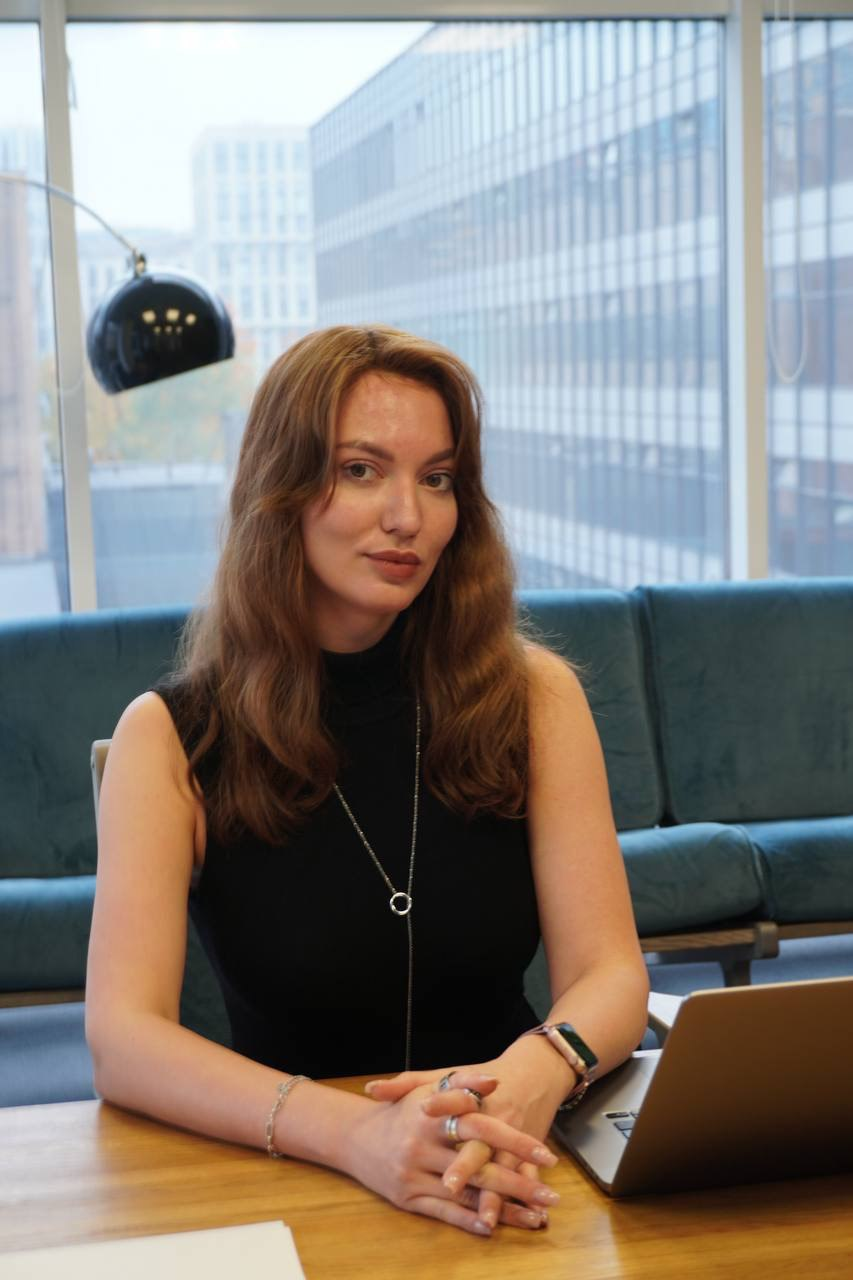
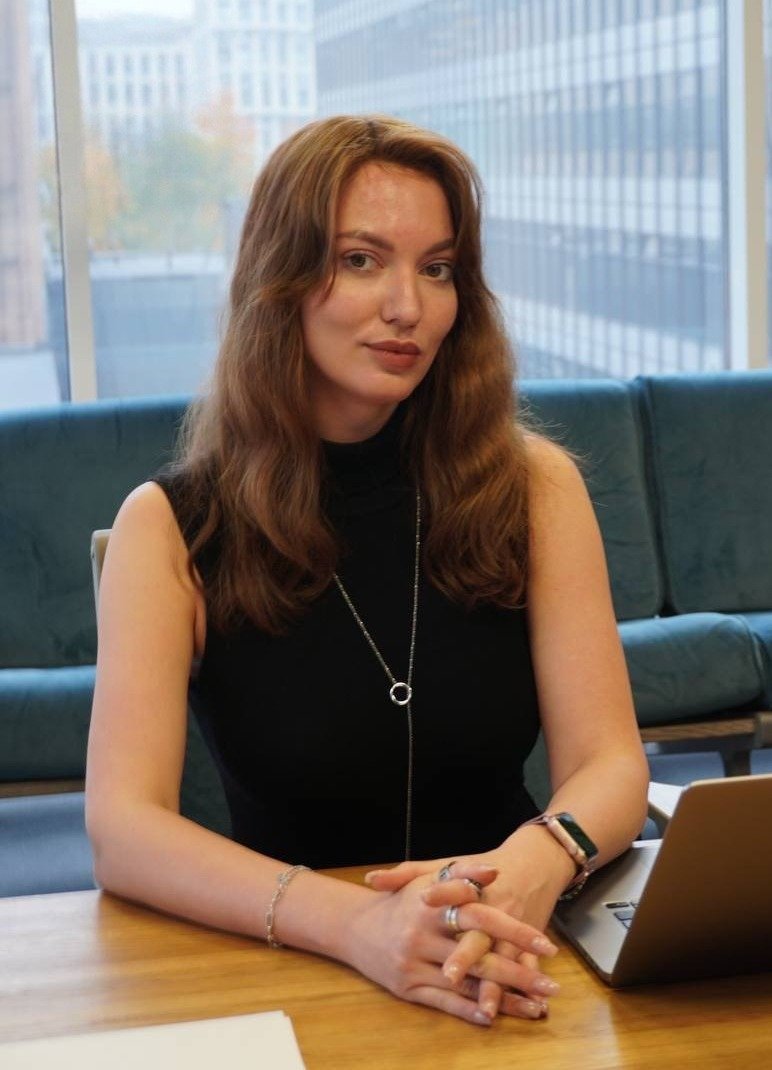
Тарифы: светлая глава с ховер-инверсией; слово основателей (Илья и Кирилл, новое фото); Алёна без лампы (лицо оригинал); «12 городов на карте наших проектов»

diff --git a/index.html b/index.html
@@ -194,36 +194,37 @@ section.section--warm{background:var(--surface-warm)}
 .studio-photos .figure:nth-child(3){margin-top:-18px}
 .studio-photos .shot{aspect-ratio:3/4}
 
-/* ============ 6 · ТАРИФЫ ============ */
-.tariffs{display:grid;grid-template-columns:repeat(3,1fr);gap:var(--grid-gap)}
-.tcard{border:var(--bw) solid var(--border);padding:34px 30px;display:flex;flex-direction:column;min-height:380px;transition:border-color .8s var(--ease),transform .8s var(--ease)}
-.tcard{position:relative}
-.tcard:hover{border-color:var(--ink);transform:translateY(-4px)}
-.tcard::after{content:"";position:absolute;left:0;top:-1px;height:2px;width:0;background:var(--ink);transition:width .7s var(--ease)}
-.tcard.mid::after{background:var(--paper)}
-.tcard:hover::after{width:100%}
-.tcard.hi{border-color:var(--ink)}
-.tcard.mid{border-color:var(--ink);background:var(--ink);color:var(--paper)}
-.tcard.mid .tname,.tcard.mid li{color:rgba(252,252,252,.72)}
-.tcard.mid li::before{color:rgba(252,252,252,.5)}
-.tcard.mid .price{color:#fff}
-.tcard.mid .btn{background:var(--paper);color:var(--ink);border-color:var(--paper)}
-.tcard.mid .btn:hover{background:transparent;color:var(--paper)}
-.tname{font-size:13px;letter-spacing:.16em;text-transform:uppercase;color:var(--text-2);font-weight:var(--w-semibold)}
-.ttag{font-size:15px;color:var(--ink);margin-top:7px;font-weight:var(--w-medium);letter-spacing:-.01em;line-height:1.25}
-.tcard.mid .ttag{color:#fff}
-.tdesc{font-size:14.5px;color:var(--text-2);margin-top:9px;line-height:1.4;min-height:3.05em}
-.tcard.mid .tdesc{color:rgba(252,252,252,.72)}
-.price{font-size:clamp(1.6rem,2.4vw,2.1rem);font-weight:var(--w-semibold);letter-spacing:-.02em;margin:16px 0 2px}
-.price small{font-size:.9rem;color:var(--text-2);font-weight:var(--w-medium)}
-.tcard.mid .price small{color:rgba(252,252,252,.7)}
-.tmeta{font-size:13px;color:var(--text-2);margin-top:7px;letter-spacing:.005em;line-height:1.35;min-height:2.5em}
-.tcard.mid .tmeta{color:rgba(252,252,252,.7)}
-.tcard ul{list-style:none;margin-top:22px;display:flex;flex-direction:column;gap:11px}
-.tcard li{font-size:14.5px;color:var(--text-2);padding-left:18px;position:relative;line-height:1.4}
-.tcard li::before{content:"—";position:absolute;left:0;color:var(--border)}
-.tcard .spacer{flex:1}
-.tcard .btn{width:100%;justify-content:center;margin-top:26px}
+/* ============ 6 · ТАРИФЫ (светлая глава — гибрид вариантов 2+3) ============ */
+.tf-grid{display:grid;grid-template-columns:repeat(3,1fr)}
+.tf-col{position:relative;overflow:hidden;display:flex;flex-direction:column;
+  padding:clamp(28px,3vw,44px) clamp(24px,2.6vw,40px) clamp(30px,3.2vw,48px);
+  border-top:var(--bw) solid var(--ink)}
+.tf-col+.tf-col{border-left:var(--bw) solid var(--border)}
+/* чёрная заливка снизу вверх (от Варианта 2) */
+.tf-col::before{content:"";position:absolute;inset:0;background:var(--ink);
+  transform:scaleY(0);transform-origin:bottom;transition:transform .7s var(--ease);pointer-events:none}
+.tf-col>*{position:relative;z-index:1}
+.tf-idx{font-size:13px;color:var(--text-2);letter-spacing:.08em;font-variant-numeric:tabular-nums;transition:color .55s var(--ease)}
+.tf-name{margin-top:clamp(26px,3.2vw,48px);font-size:clamp(2.1rem,3.6vw,3.6rem);font-weight:var(--w-semibold);
+  letter-spacing:-.045em;line-height:.95;transition:color .55s var(--ease)}
+.tf-tag{margin-top:12px;font-size:15.5px;font-weight:var(--w-medium);letter-spacing:-.01em;line-height:1.3;transition:color .55s var(--ease)}
+.tf-desc{margin-top:8px;font-size:14.5px;color:var(--text-2);line-height:1.45;min-height:4.2em;transition:color .55s var(--ease)}
+.tf-price{margin-top:clamp(22px,2.8vw,40px);font-size:clamp(1.9rem,2.8vw,2.6rem);font-weight:var(--w-semibold);
+  letter-spacing:-.035em;line-height:1;font-variant-numeric:tabular-nums;white-space:nowrap;transition:color .55s var(--ease)}
+.tf-price small{font-size:.55em;font-weight:var(--w-medium);color:var(--text-2);margin-left:.15em;transition:color .55s var(--ease)}
+.tf-meta{font-size:13px;color:var(--text-2);margin-top:10px;letter-spacing:.02em;line-height:1.35;min-height:2.4em;transition:color .55s var(--ease)}
+.tf-col ul{list-style:none;margin-top:clamp(20px,2.4vw,32px)}
+.tf-col li{font-size:14.5px;color:var(--text-2);line-height:1.4;padding:11px 0;
+  border-top:var(--bw) solid var(--border);transition:color .55s var(--ease),border-color .55s var(--ease)}
+.tf-spacer{flex:1}
+.tf-col .link{margin-top:clamp(24px,2.8vw,36px);align-self:flex-start;font-size:15px;transition:color .55s var(--ease)}
+/* инверсия текста — только на устройствах с курсором; на таче колонки статичные светлые */
+@media (hover:hover) and (pointer:fine){
+  .tf-col:hover::before{transform:scaleY(1)}
+  .tf-col:hover .tf-name,.tf-col:hover .tf-tag,.tf-col:hover .tf-price,.tf-col:hover .link{color:var(--paper)}
+  .tf-col:hover .tf-idx,.tf-col:hover .tf-desc,.tf-col:hover .tf-meta,.tf-col:hover li,.tf-col:hover .tf-price small{color:rgba(252,252,252,.72)}
+  .tf-col:hover li{border-color:rgba(252,252,252,.22)}
+}
 
 /* ============ 7 · КОНТАКТ (арт-директор) ============ */
 .contact{display:grid;grid-template-columns:clamp(190px,20vw,280px) 1fr;gap:clamp(36px,5vw,72px);align-items:center}
@@ -343,7 +344,11 @@ footer{position:relative;z-index:2;background:var(--ink);color:#b9b9b8;padding:c
   .ready{grid-template-columns:1fr 1fr}
   .studio,.contact{grid-template-columns:1fr;gap:40px}
   .calc{grid-template-columns:1fr;gap:32px}
-  .tariffs{grid-template-columns:1fr}
+  .tf-grid{grid-template-columns:1fr}
+  .tf-col{padding-inline:0}
+  .tf-col+.tf-col{border-left:none}
+  .tf-name{margin-top:14px}
+  .tf-desc,.tf-meta{min-height:0}
   .diptych,.diptych.offset,.diptych.offset.rev{grid-template-columns:1fr}
   .studio-photos .figure:nth-child(n){margin-top:0}
   .sticky-cta{display:flex;position:fixed;left:0;right:0;bottom:0;z-index:55;background:var(--paper);border-top:var(--bw) solid var(--border);padding:12px var(--pad)}
@@ -500,37 +505,40 @@ footer{position:relative;z-index:2;background:var(--ink);color:#b9b9b8;padding:c
     <h2 class="h2" data-split>Смарт · Бизнес · Ультра</h2>
     <p class="lead" data-reveal>Объём и смету фиксируем до старта. Цена — за дизайн-проект; ремонт и комплектацию считаем под объект.</p>
   </div>
-  <div class="tariffs" data-stagger>
-    <div class="tcard">
-      <div class="tname">Смарт</div>
-      <div class="ttag">Рациональный быстрый старт</div>
-      <div class="tdesc">Аренда, флиппинг и коммерция до&nbsp;300&nbsp;м². Когда нужен грамотный проект для быстрого старта.</div>
-      <div class="price">2 900 <small>₽/м²</small></div>
-      <div class="tmeta">Срок от&nbsp;15 раб. дней&nbsp;· разрабатывает дизайнер</div>
+  <div class="tf-grid" data-stagger>
+    <article class="tf-col">
+      <div class="tf-idx">01</div>
+      <h3 class="tf-name">Смарт</h3>
+      <div class="tf-tag">Рациональный быстрый старт</div>
+      <div class="tf-desc">Аренда, флиппинг и коммерция до&nbsp;300&nbsp;м². Когда нужен грамотный проект для быстрого старта.</div>
+      <div class="tf-price">2 900<small>₽/м²</small></div>
+      <div class="tf-meta">Срок от&nbsp;15 раб. дней&nbsp;· разрабатывает дизайнер</div>
       <ul><li>Замеры и 1 планировочное решение</li><li>Пакет чертежей для старта стройки</li><li>AI-визуализации интерьера</li><li>Предварительная финкарта</li></ul>
-      <div class="spacer"></div>
-      <a href="design-project.html" class="btn btn--ghost">Узнать подробнее</a>
-    </div>
-    <div class="tcard hi">
-      <div class="tname">Бизнес</div>
-      <div class="ttag">Эстетика и точный расчёт</div>
-      <div class="tdesc">Квартира для себя в&nbsp;ЖК комфорт+&nbsp;и бизнес, частный дом или коммерция до&nbsp;500&nbsp;м².</div>
-      <div class="price">4 900 <small>₽/м²</small></div>
-      <div class="tmeta">Срок от&nbsp;25 раб. дней&nbsp;· разрабатывает ведущий дизайнер</div>
+      <div class="tf-spacer"></div>
+      <a href="design-project.html" class="link">Узнать подробнее</a>
+    </article>
+    <article class="tf-col">
+      <div class="tf-idx">02</div>
+      <h3 class="tf-name">Бизнес</h3>
+      <div class="tf-tag">Эстетика и точный расчёт</div>
+      <div class="tf-desc">Квартира для себя в&nbsp;ЖК комфорт+&nbsp;и бизнес, частный дом или коммерция до&nbsp;500&nbsp;м².</div>
+      <div class="tf-price">4 900<small>₽/м²</small></div>
+      <div class="tf-meta">Срок от&nbsp;25 раб. дней&nbsp;· разрабатывает ведущий дизайнер</div>
       <ul><li>BIM-обмер, 3 планировки и концепт</li><li>Полный пакет рабочих чертежей</li><li>Фотореалистичные 3D и&nbsp;3D-тур, 2&nbsp;круга правок</li><li>Ведомость материалов и бюджет проекта</li></ul>
-      <div class="spacer"></div>
-      <a href="design-project.html" class="btn">Узнать подробнее</a>
-    </div>
-    <div class="tcard mid">
-      <div class="tname">Ультра</div>
-      <div class="ttag">Максимальный результат и сервис</div>
-      <div class="tdesc">ЖК бизнес и премиум, дом от&nbsp;300&nbsp;м², коммерция от&nbsp;500&nbsp;м². Всё под ключ.</div>
-      <div class="price">8 900 <small>₽/м²</small></div>
-      <div class="tmeta">Срок от&nbsp;33 раб. дней&nbsp;· разрабатывает арт-директор</div>
+      <div class="tf-spacer"></div>
+      <a href="design-project.html" class="link">Узнать подробнее</a>
+    </article>
+    <article class="tf-col">
+      <div class="tf-idx">03</div>
+      <h3 class="tf-name">Ультра</h3>
+      <div class="tf-tag">Максимальный результат и сервис</div>
+      <div class="tf-desc">ЖК бизнес и премиум, дом от&nbsp;300&nbsp;м², коммерция от&nbsp;500&nbsp;м². Всё под ключ.</div>
+      <div class="tf-price">8 900<small>₽/м²</small></div>
+      <div class="tf-meta">Срок от&nbsp;33 раб. дней&nbsp;· разрабатывает арт-директор</div>
       <ul><li>BIM-обмер 2.0 и расширенные чертежи</li><li>VR-презентация и 3D-тур, 3&nbsp;круга правок</li><li>Подробный бюджет и тендер строителей</li><li>Комплектация и контроль реализации</li></ul>
-      <div class="spacer"></div>
-      <a href="design-project.html" class="btn btn--ghost">Узнать подробнее</a>
-    </div>
+      <div class="tf-spacer"></div>
+      <a href="design-project.html" class="link">Узнать подробнее</a>
+    </article>
   </div>
 </div></section>
 

diff --git a/about.html b/about.html
@@ -467,8 +467,8 @@ footer{position:relative;z-index:2;background:var(--ink);color:#b9b9b8;padding:c
 .hgallery--story .hshot{aspect-ratio:3/4}
 
 /* === Блок «Слово основателя» (портрет + манифест) === */
-.founder__grid{display:grid;grid-template-columns:clamp(240px,26vw,360px) 1fr;gap:clamp(36px,5vw,72px);align-items:center}
-.founder__photo{margin:0;overflow:hidden;aspect-ratio:3/4;background:var(--paper)}
+.founder__grid{display:grid;grid-template-columns:clamp(280px,30vw,430px) 1fr;gap:clamp(36px,5vw,72px);align-items:stretch}
+.founder__photo{margin:0;overflow:hidden;background:var(--paper);height:100%;min-height:420px}
 .founder__photo img{width:100%;height:100%;object-fit:cover}
 .founder__q{margin:0;padding:0;border:0}
 .founder__final{color:var(--ink)}
@@ -477,7 +477,7 @@ footer{position:relative;z-index:2;background:var(--ink);color:#b9b9b8;padding:c
 .founder__sign .fs-rl{font-size:13px;color:var(--text-2)}
 @media(max-width:900px){
   .founder__grid{grid-template-columns:1fr;gap:clamp(26px,6vw,36px);align-items:start}
-  .founder__photo{max-width:min(76vw,340px)}
+  .founder__photo{max-width:min(76vw,340px);height:auto;min-height:0;aspect-ratio:3/4}
 }
 </style>
 
@@ -568,7 +568,7 @@ footer{position:relative;z-index:2;background:var(--ink);color:#b9b9b8;padding:c
     <div class="stat"><div class="stat__n" data-n="600" data-suf="+">600+</div><div class="stat__l">реализованных проектов</div></div>
     <div class="stat"><div class="stat__n" data-n="51">51</div><div class="stat__l">человек в&nbsp;команде</div></div>
     <div class="stat"><div class="stat__n" data-n="5" data-suf="&nbsp;лет">5&nbsp;лет</div><div class="stat__l">на&nbsp;рынке</div></div>
-    <div class="stat"><div class="stat__n" data-n="12">12</div><div class="stat__l">городов</div></div>
+    <div class="stat"><div class="stat__n" data-n="12">12</div><div class="stat__l">городов на&nbsp;карте наших проектов</div></div>
   </div>
 </div></section>
 
@@ -625,22 +625,22 @@ footer{position:relative;z-index:2;background:var(--ink);color:#b9b9b8;padding:c
   </div>
 </section>
 
-<!-- 6.5 · СЛОВО ОСНОВАТЕЛЯ (манифест) -->
+<!-- 6.5 · СЛОВО ОСНОВАТЕЛЕЙ (манифест) -->
 <section class="section section--warm founder" id="founder"><div class="container">
   <div class="founder__grid">
     <figure class="founder__photo" data-reveal="scale">
-      <img src="assets/img/founder.jpg" alt="Илья Мокеров, основатель студии NoStress Design">
+      <img src="assets/img/founders.jpg" alt="Илья Мокеров и Кирилл Судибор, основатели студии NoStress Design">
     </figure>
     <div class="founder__body">
-      <div class="eyebrow" data-reveal="fade">Слово основателя</div>
+      <div class="eyebrow" data-reveal="fade">Слово основателей</div>
       <blockquote class="founder__q">
         <p class="mf-h" data-split>«Творчество остаётся творчеством, а&nbsp;процесс становится системой»</p>
         <p class="mf-sub" data-reveal>В&nbsp;дизайне интерьера много хаоса. Сроки плывут, смета удивляет в&nbsp;конце, решения принимаются на&nbsp;ходу. Мы строим студию иначе: проект разделён на&nbsp;понятные блоки&nbsp;— визуальный, технический, финансовый. Каждый этап согласовывается с&nbsp;вами, бюджет посчитан до&nbsp;начала ремонта.</p>
         <p class="mf-sub founder__final" data-reveal>NoStress Design&nbsp;— это когда красиво значит удобно, а&nbsp;«под ключ» значит вовремя.</p>
       </blockquote>
       <div class="founder__sign" data-reveal="fade">
-        <span class="fs-nm">Илья Мокеров</span>
-        <span class="fs-rl">основатель студии</span>
+        <span class="fs-nm">Илья Мокеров и&nbsp;Кирилл Судибор</span>
+        <span class="fs-rl">основатели студии</span>
       </div>
     </div>
   </div>
